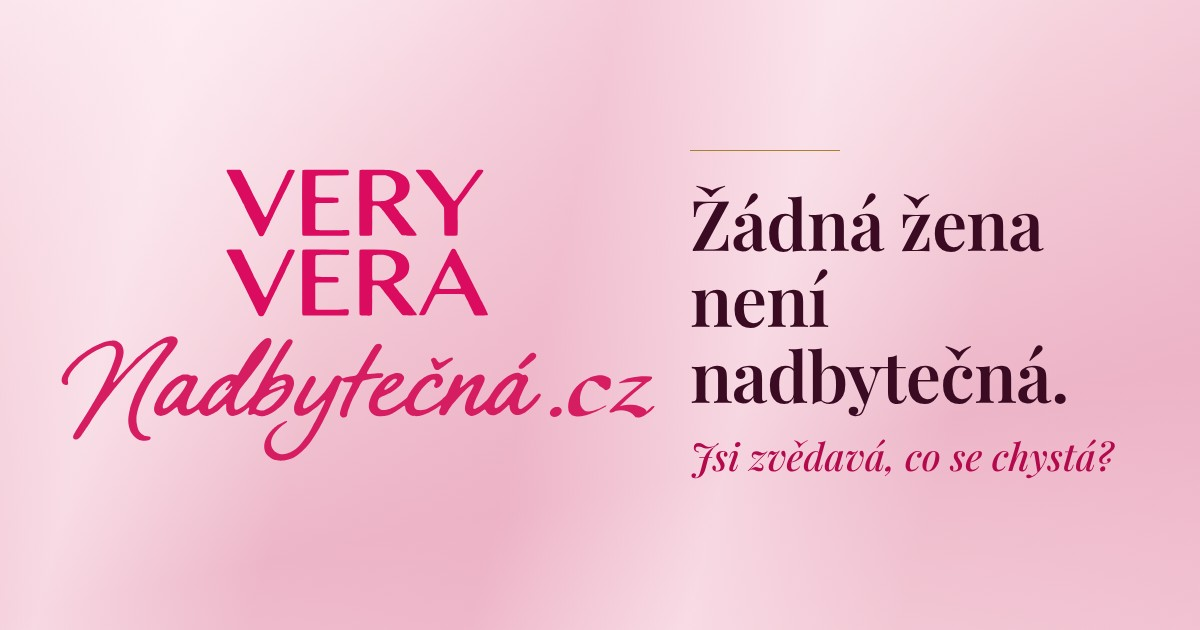
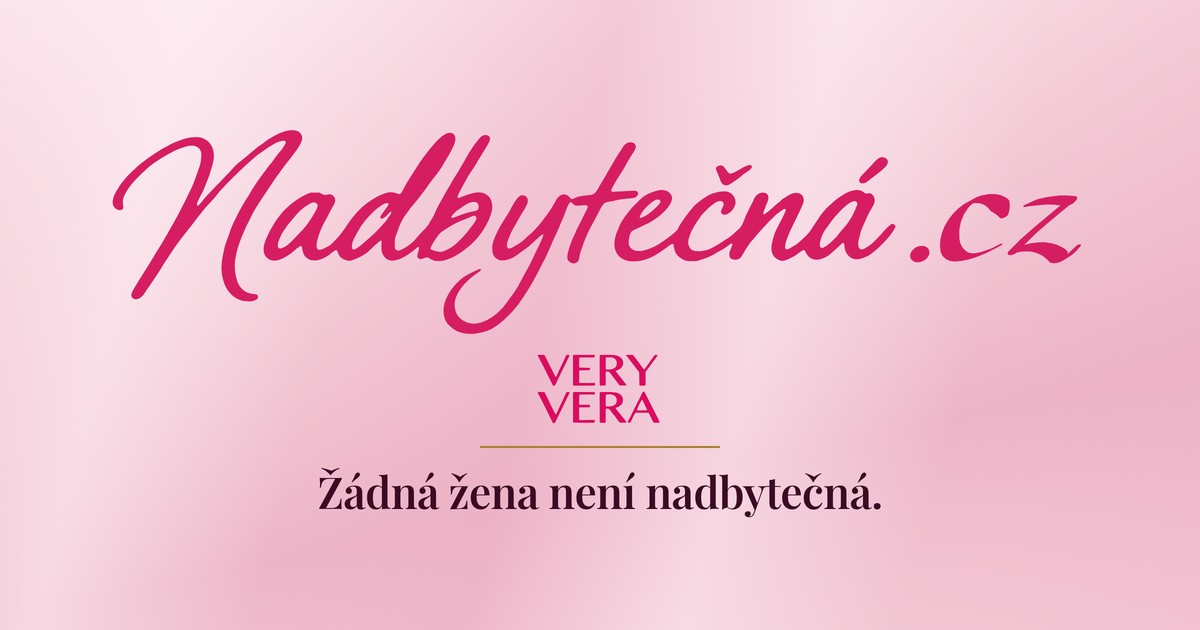
Nasaď schválenou OG variantu A jako og-v2.jpg.
Úvod i coming soon odkazují na absolutní adresu obrázku podle hostitele, včetně šířky, výšky a altu. Popis úvodu má 135 znaků, coming soon 89 a titulek data spuštění.

Changed region(s): [[0.0617, 0.2111, 0.925, 0.8143], [0.5858, 0.2111, 0.6783, 0.2413], [0.0308, 0.573, 0.0617, 0.6032]]

diff --git a/middleware.js b/middleware.js
@@ -1,9 +1,15 @@
 import { next, rewrite } from "@vercel/functions";
-import { hostGate, requestHost, siteLive } from "./lib/host-gate.mjs";
+import { hostGate, requestHost, siteLive, withOrigin } from "./lib/host-gate.mjs";
+
+const PASS = "x-nb-origin";
+
+function isDocument(pathname) {
+  return pathname === "/" || pathname.endsWith("/");
+}
 
 export const config = { runtime: "nodejs" };
 
-export default function middleware(request) {
+export default async function middleware(request) {
   const url = new URL(request.url);
   const decision = hostGate({
     host: requestHost(request.headers),
@@ -12,7 +18,31 @@ export default function middleware(request) {
     live: siteLive(process.env.SITE_LIVE),
   });
   if (decision.type === "redirect") return Response.redirect(decision.url, decision.status);
-  if (decision.type === "rewrite") return rewrite(new URL(decision.url, request.url));
-  if (decision.type === "missing") return new Response("Not found", { status: 404, headers: { "content-type": "text/plain; charset=utf-8", "x-robots-tag": "noindex" } });
-  return next();
+  if (decision.type === "missing") {
+    return new Response("Not found", { status: 404, headers: { "content-type": "text/plain; charset=utf-8", "x-robots-tag": "noindex" } });
+  }
+
+  const pass = () => (decision.type === "rewrite" ? rewrite(new URL(decision.url, request.url)) : next());
+  if (request.method !== "GET" || request.headers.get(PASS) === "1") return pass();
+
+  const served = decision.type === "rewrite" ? new URL(decision.url, request.url).pathname : url.pathname;
+  const host = requestHost(request.headers);
+  if (host === "nadbytecna.cz" || host === "www.nadbytecna.cz" || !isDocument(served)) return pass();
+
+  const target = new URL(decision.type === "rewrite" ? decision.url : `${url.pathname}${url.search}`, request.url);
+  const headers = new Headers(request.headers);
+  headers.set(PASS, "1");
+  let res;
+  try {
+    res = await fetch(target, { headers, redirect: "manual" });
+  } catch {
+    return pass();
+  }
+  const type = res.headers.get("content-type") || "";
+  if (!res.ok || !type.includes("text/html")) return pass();
+  const html = withOrigin(await res.text(), url.origin);
+  const out = new Headers(res.headers);
+  out.delete("content-length");
+  out.delete("content-encoding");
+  return new Response(html, { status: res.status, headers: out });
 }

diff --git a/lib/phase1-html.js b/lib/phase1-html.js
@@ -74,7 +74,7 @@ function head({ css, preload, title, desc }) {
 <meta property="og:locale" content="cs_CZ">
 <link rel="canonical" href="https://nadbytecna.cz/">
 <meta property="og:url" content="https://nadbytecna.cz/">
-<meta property="og:image" content="https://nadbytecna.cz/og.jpg">
+<meta property="og:image" content="https://nadbytecna.cz/og-v2.jpg">
 <meta property="og:image:type" content="image/jpeg">
 <meta property="og:image:width" content="1200">
 <meta property="og:image:height" content="630">
@@ -82,7 +82,7 @@ function head({ css, preload, title, desc }) {
 <meta name="twitter:card" content="summary_large_image">
 <meta name="twitter:title" content="${esc(title)}">
 <meta name="twitter:description" content="${esc(desc)}">
-<meta name="twitter:image" content="https://nadbytecna.cz/og.jpg">
+<meta name="twitter:image" content="https://nadbytecna.cz/og-v2.jpg">
 <link rel="icon" href="/favicon.svg" type="image/svg+xml">
 <link rel="icon" href="/favicon.ico" sizes="32x32">
 <link rel="apple-touch-icon" href="/apple-touch-icon.png">
@@ -423,7 +423,7 @@ ${tail("potrebuji")}`,
 <meta property="og:description" content="11. 11. 2026 otevíráme Nadbytečná.cz. Zanechte e-mail a o spuštění se dozvíte jako první.">
 <meta property="og:type" content="website">
 <meta property="og:url" content="https://nadbytecna.cz/">
-<meta property="og:image" content="https://nadbytecna.cz/og.jpg">
+<meta property="og:image" content="https://nadbytecna.cz/og-v2.jpg">
 <meta property="og:image:type" content="image/jpeg">
 <meta property="og:image:width" content="1200">
 <meta property="og:image:height" content="630">
@@ -431,7 +431,7 @@ ${tail("potrebuji")}`,
 <meta name="twitter:card" content="summary_large_image">
 <meta name="twitter:title" content="Nadbytečná.cz — spouštíme 11. 11. 2026">
 <meta name="twitter:description" content="11. 11. 2026 otevíráme Nadbytečná.cz. Zanechte e-mail a o spuštění se dozvíte jako první.">
-<meta name="twitter:image" content="https://nadbytecna.cz/og.jpg">
+<meta name="twitter:image" content="https://nadbytecna.cz/og-v2.jpg">
 <link rel="icon" href="/favicon.svg" type="image/svg+xml">
 <link rel="icon" href="/favicon.ico" sizes="32x32">
 <link rel="apple-touch-icon" href="/apple-touch-icon.png">
